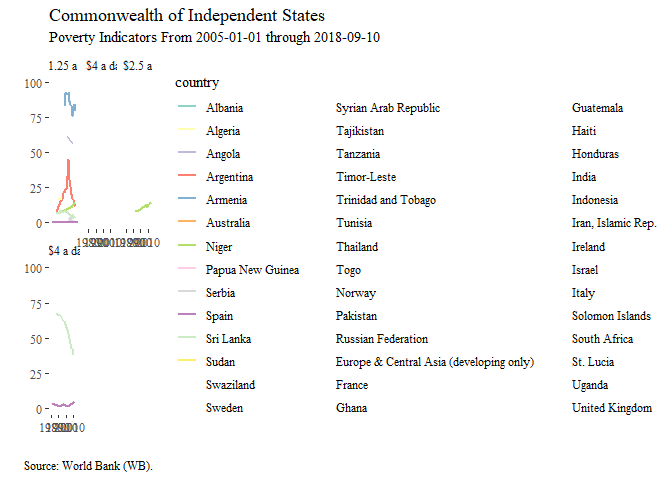
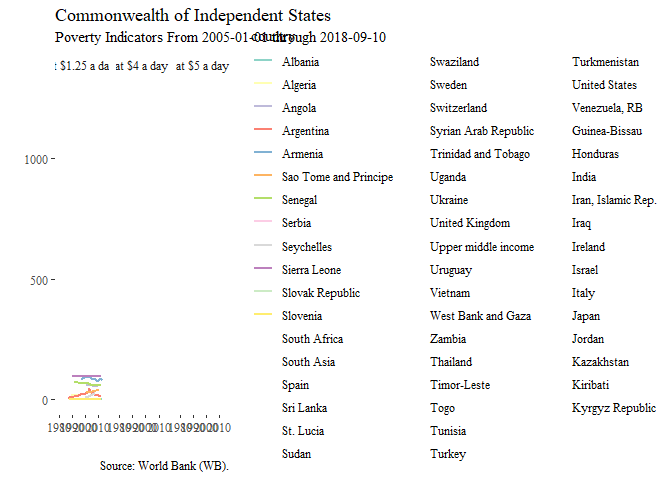
new example on read me.

diff --git a/README.md b/README.md
@@ -3,7 +3,7 @@
 FromQuandl
 ==========
 
-The goal of FromQuandl is to easy the search, download and data preprocessing that often happen when using the `Quandl` package in R.
+The goal of FromQuandl is to easy the search, download and data preprocess that often happen when using the `Quandl` package in R.
 
 Installation
 ------------
@@ -15,10 +15,10 @@ You can install FromQuandl from github with:
 devtools::install_github("Reckziegel/FromQuandl")
 ```
 
-Example2
+Examples
 --------
 
-Suppose you would like to download the Current Account Balance (as % of GDP) for all countries of a specific region or with a similar economic characteristic, like the G7, for example. Use the `imf_search()` function to discover the Current Accounts code.
+Suppose you would like to download the Current Account Balance (as % of GDP) for all countries of a specific region or with similar economic characteristics, like the G7. Use the `imf_search()` function to discover the Current Account code in `Quandl`.
 
 ``` r
 library(FromQuandl)
@@ -30,10 +30,12 @@ imf_search('account')
 #> 2 current account balance, usd billions BCA
 ```
 
-Next use `imf_from_quandl()` to download this data.
+Next use `imf_from_quandl()` to download and plot the data.
 
 ``` r
 library(FromQuandl)
+library(ggthemes)
+
 ca <- imf_from_quandl(countries = 'g7', indicators = 'BCA_NGDPD', start_date = '2008-01-01')
 ca
 #> # A tibble: 105 x 6
@@ -50,19 +52,12 @@ ca
 #>  9 2016-12-31 CAN   Canada  BCA_NGDPD -3.34  Current Account Balance, % o~
 #> 10 2017-12-31 CAN   Canada  BCA_NGDPD -2.92  Current Account Balance, % o~
 #> # ... with 95 more rows
-```
 
-The result is a `tibble` that it's ready to be used in `ggplot2`.
-
-``` r
-library(ggplot2)
-library(ggthemes)
-
-ca %>%
-  ggplot(aes(date, value, color = country)) + 
+ca %>% 
+   ggplot(aes(date, value, color = country)) + 
   geom_line(size = 1, show.legend = FALSE) + 
   geom_hline(aes(yintercept = 0), color = 'red', linetype = 'dashed', alpha = 0.3) + 
-  facet_wrap(~country, scale = "free_y") + 
+  facet_wrap(~ country, scale = "free_y") + 
   labs(title    = "Current Account Balance (% of GDP)",
        subtitle = "G7 Countries From 2005-01-01 through 2018-09-10",
        caption  = "Source: International Monetary Found (IMF).") + 
@@ -70,21 +65,19 @@ ca %>%
   scale_color_gdocs()
 ```
 
-![](README-example2-1.png)
+![](README-example%201-1.png)
 
-There is no need to restrict the download to only one indicator, just add a vector or a list of characters strings in the `indicators` argument and the function will work in the same way. But be aware that may be safe using `Quandl.api_key()` if you want to get too many series.
+The result is a `tibble` that it's ready to be used in `ggplot2`.
 
-As a second example imagine that you want to plot the poverty statistics from the World Bank for all countries in the Commonwealth of Independent States. Simply run
+There is no need to restrict the download to only one indicator. The `indicators` argument supports lists and vectors of strings as well, but be aware that may be safe using `Quandl.api_key()` if you want to access too many series.
+
+As a second example imagine that you want to downalod the poverty statistics from the World Bank for all countries in the Commonwealth of Independent States. Simply run
 
 ``` r
 library(FromQuandl)
-library(ggplot2)
-library(ggthemes)
 
-# download the data
-poverty <- wb_from_quandl('cis', 'poverty')
-poverty
-#> # A tibble: 367 x 4
+wb_from_quandl('cis', 'poverty') 
+#> # A tibble: 488 x 4
 #>    date       country indicator                                       value
 #>    <date>     <fct>   <fct>                                           <dbl>
 #>  1 1996-12-31 Albania Number of poor at $1.25 a day (PPP) (millions)  0.495
@@ -97,28 +90,12 @@ poverty
 #>  8 1995-12-31 Algeria Number of poor at $1.25 a day (PPP) (millions) 18.5  
 #>  9 2000-12-31 Angola  Number of poor at $1.25 a day (PPP) (millions) 61.6  
 #> 10 2008-12-31 Angola  Number of poor at $1.25 a day (PPP) (millions) 56.8  
-#> # ... with 357 more rows
+#> # ... with 478 more rows
 ```
 
-``` r
-library(ggplot2)
-library(ggthemes)
+The data is *tidy* and ready to be used with the `%>%` operatior.
 
-# If you want a plot
-poverty %>%
-  ggplot(aes(date, value)) +
-  geom_line(aes(color = country), size = 1) +
-  facet_wrap(~indicator, ncol = 3) +
-  labs(title    = "Commonwealth of Independent States",
-       subtitle = "Poverty Indicators From 2005-01-01 through 2018-09-10",
-       caption  = "Source: World Bank (WB).",
-       x        = "",
-       y        = "") +
-  theme_tufte() +
-  scale_color_brewer(palette = 'Set3')
-```
-
-![](README-example%204-1.png)
+Additional information about the `imf_from_quandl()`and `wb_from_quandl()` can be found at the package documenation.
 
 Future Developments
 -------------------
